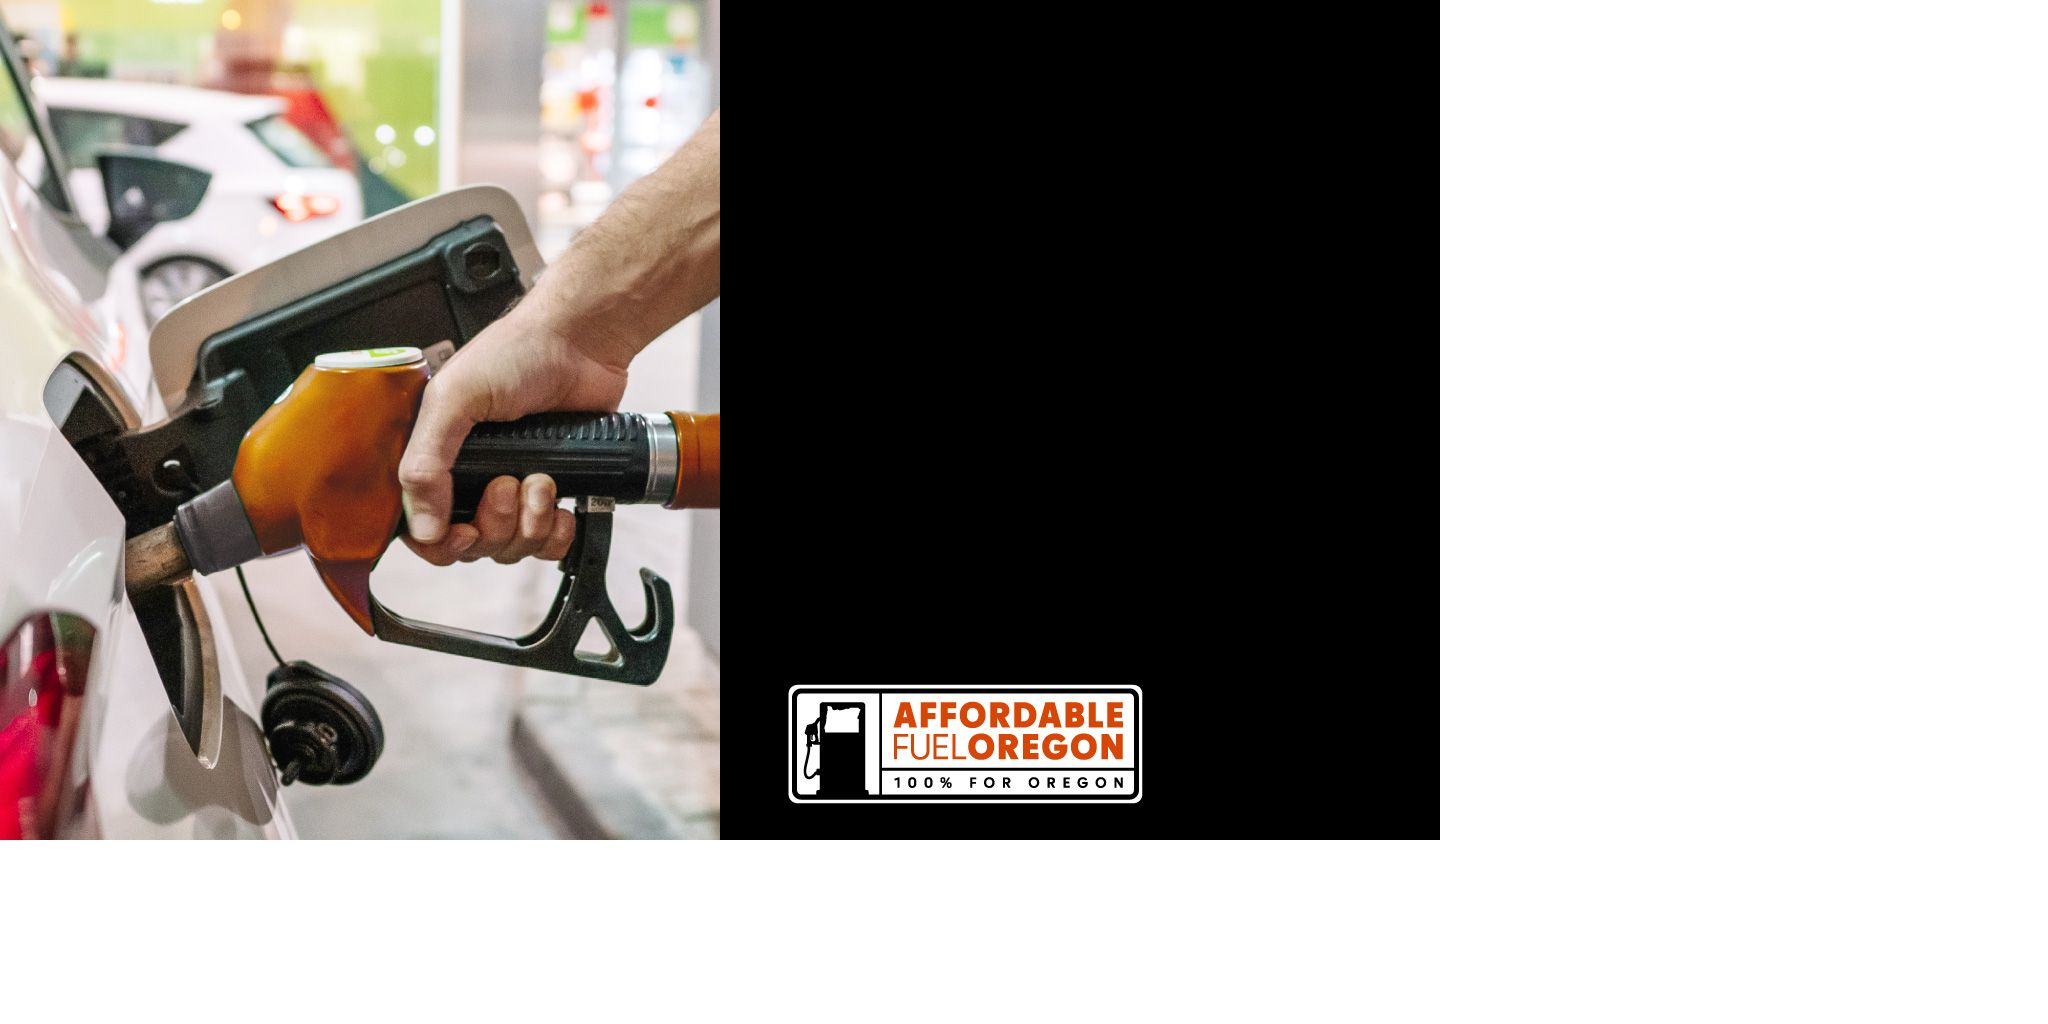
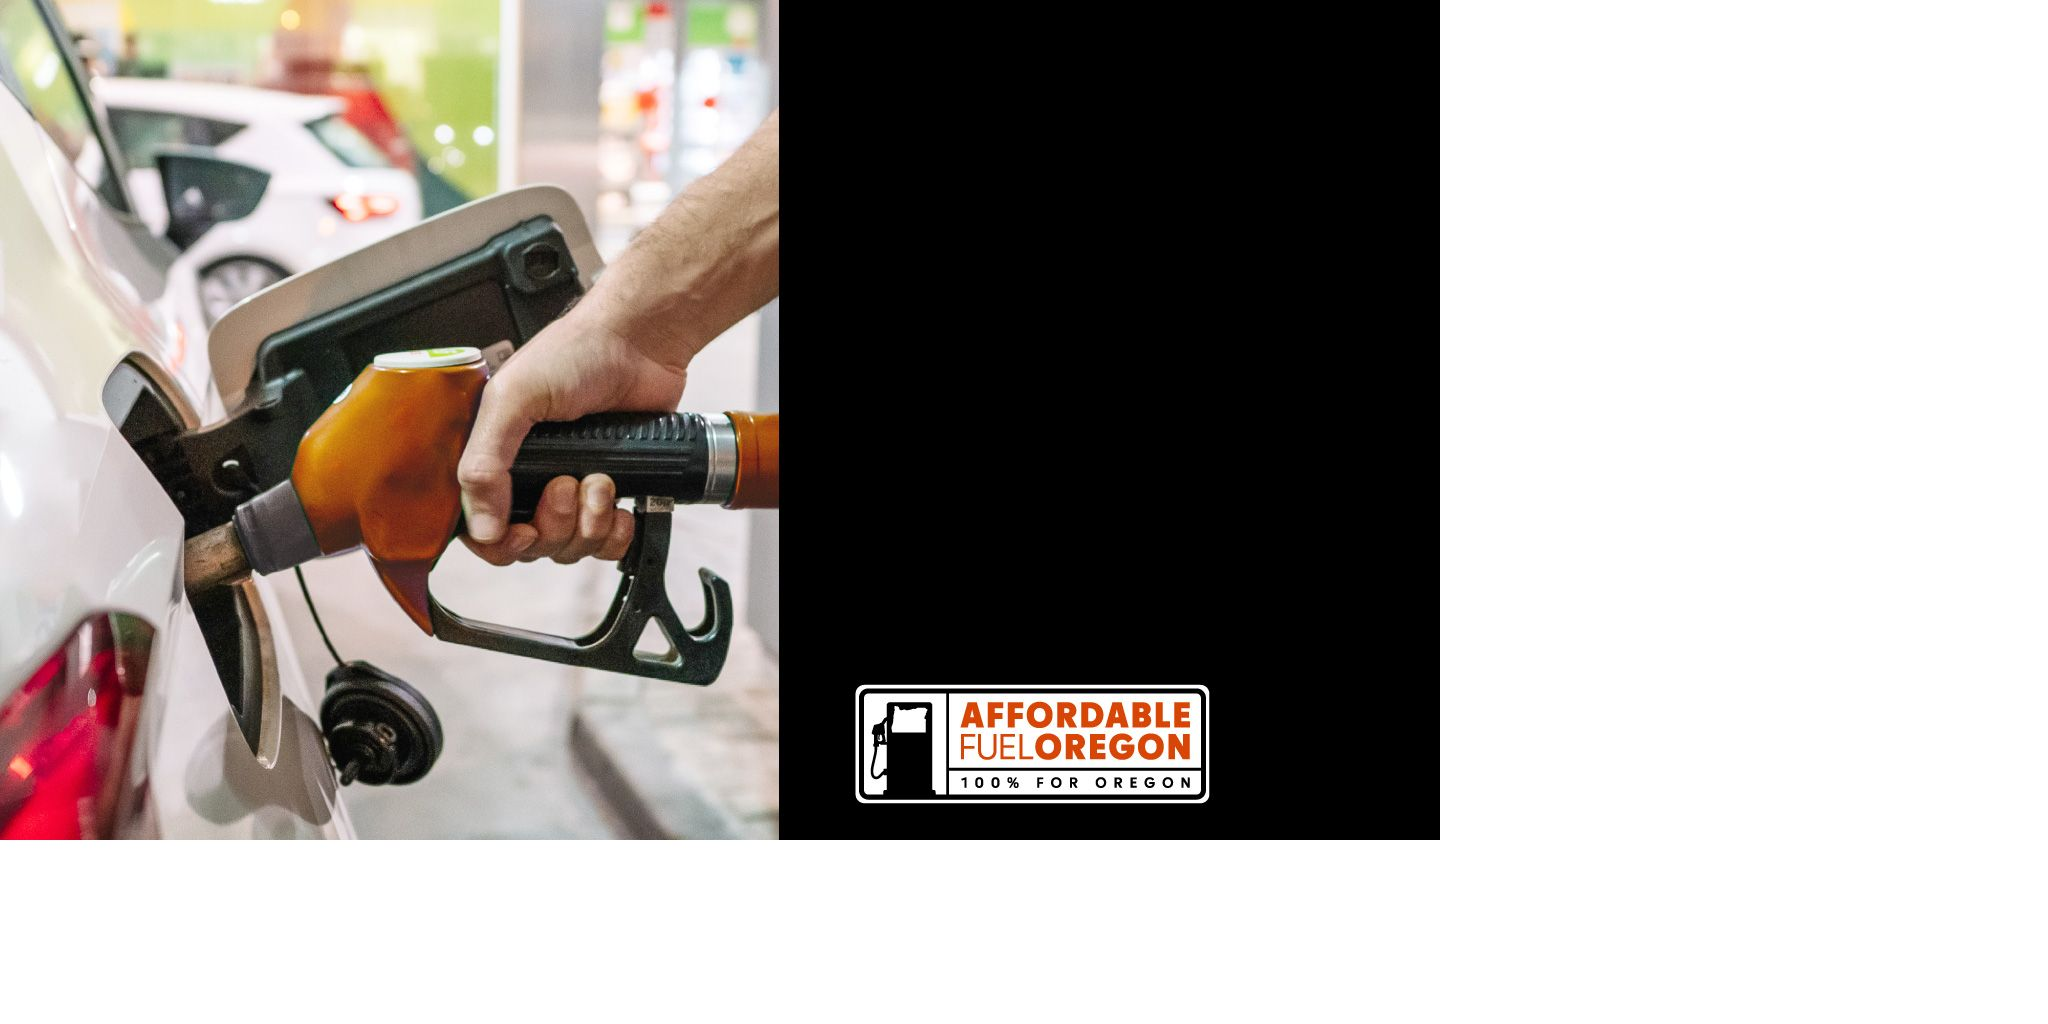
Add files via upload

Changed region(s): [[0.0, 0.0, 0.5938, 0.8438]]

diff --git a/pump/720x420/WSPA-Pump-720x420.js b/pump/720x420/WSPA-Pump-720x420.js
@@ -494,75 +494,15 @@ if (reversed == null) { reversed = false; }
 
 	// CTA
 	this.instance = new lib.CTA();
-	this.instance.setTransform(478.9,310.75,1.05,1.05);
+	this.instance.setTransform(513.9,310.75,1.05,1.05);
 
-	this.timeline.addTween(cjs.Tween.get(this.instance).wait(95).to({scaleX:1.365,scaleY:1.365,x:477.9},3).to({scaleX:1.05,scaleY:1.05,x:478.9},5).wait(16));
-
-	// mask (mask)
-	var mask = new cjs.Shape();
-	mask._off = true;
-	mask.graphics.p("EgcFAgxMAAAhBiMA4KAAAMAAABBig");
-	mask.setTransform(539.75,209.75);
-
-	// HEAD1
-	this.instance_1 = new lib.HEAD1();
-	this.instance_1.setTransform(1226.45,454.75,1.1614,1.1614,0,0,0,1034.2,469.5);
-	this.instance_1.alpha = 0;
-	this.instance_1._off = true;
-
-	var maskedShapeInstanceList = [this.instance_1];
-
-	for(var shapedInstanceItr = 0; shapedInstanceItr < maskedShapeInstanceList.length; shapedInstanceItr++) {
-		maskedShapeInstanceList[shapedInstanceItr].mask = mask;
-	}
-
-	this.timeline.addTween(cjs.Tween.get(this.instance_1).wait(9).to({_off:false},0).to({regX:1034.3,x:1574.8,alpha:1},14,cjs.Ease.quintOut).wait(96));
-
-	// mask copy (mask)
-	var mask_1 = new cjs.Shape();
-	mask_1._off = true;
-	mask_1.graphics.p("EgcFAgxMAAAhBiMA4KAAAMAAABBig");
-	mask_1.setTransform(539.75,209.75);
-
-	// HEAD2
-	this.instance_2 = new lib.HEAD2();
-	this.instance_2.setTransform(1226.45,454.75,1.1614,1.1614,0,0,0,1034.2,469.5);
-	this.instance_2.alpha = 0;
-	this.instance_2._off = true;
-
-	var maskedShapeInstanceList = [this.instance_2];
-
-	for(var shapedInstanceItr = 0; shapedInstanceItr < maskedShapeInstanceList.length; shapedInstanceItr++) {
-		maskedShapeInstanceList[shapedInstanceItr].mask = mask_1;
-	}
-
-	this.timeline.addTween(cjs.Tween.get(this.instance_2).wait(37).to({_off:false},0).to({regX:1034.3,x:1574.8,alpha:1},14,cjs.Ease.quintOut).wait(68));
-
-	// mask copy 2 (mask)
-	var mask_2 = new cjs.Shape();
-	mask_2._off = true;
-	mask_2.graphics.p("EgcFAgxMAAAhBiMA4KAAAMAAABBig");
-	mask_2.setTransform(539.75,209.75);
-
-	// SUB
-	this.instance_3 = new lib.SUB();
-	this.instance_3.setTransform(217.85,244.05,0.81,0.81,0,0,0,193.1,34.1);
-	this.instance_3.alpha = 0;
-	this.instance_3._off = true;
-
-	var maskedShapeInstanceList = [this.instance_3];
-
-	for(var shapedInstanceItr = 0; shapedInstanceItr < maskedShapeInstanceList.length; shapedInstanceItr++) {
-		maskedShapeInstanceList[shapedInstanceItr].mask = mask_2;
-	}
-
-	this.timeline.addTween(cjs.Tween.get(this.instance_3).wait(65).to({_off:false},0).to({regX:193.2,x:547.95,alpha:1},14,cjs.Ease.quintOut).wait(40));
+	this.timeline.addTween(cjs.Tween.get(this.instance).wait(95).to({scaleX:1.365,scaleY:1.365,x:512.9},3).to({scaleX:1.05,scaleY:1.05,x:513.9},5).wait(16));
 
 	// BKGD
-	this.instance_4 = new lib.pumpbkgd();
-	this.instance_4.setTransform(0,0,0.5,0.5);
+	this.instance_1 = new lib.pumpbkgd();
+	this.instance_1.setTransform(0,0,0.5,0.5);
 
-	this.timeline.addTween(cjs.Tween.get(this.instance_4).wait(119));
+	this.timeline.addTween(cjs.Tween.get(this.instance_1).wait(119));
 
 	this._renderFirstFrame();
 
